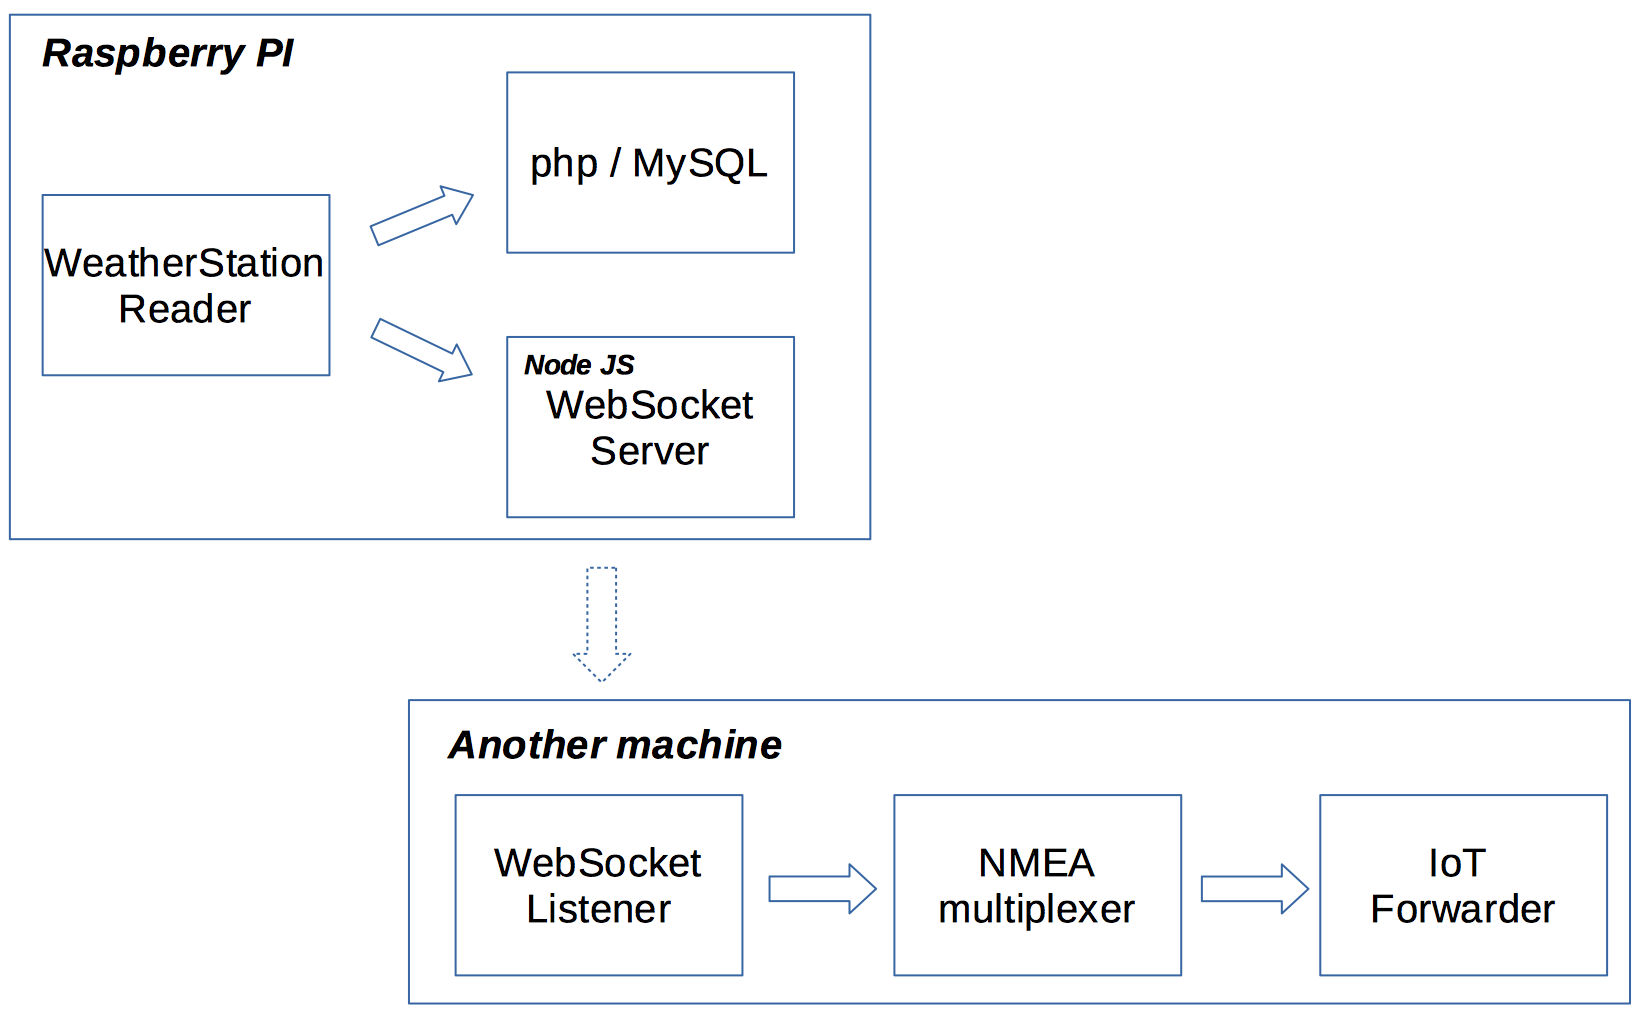
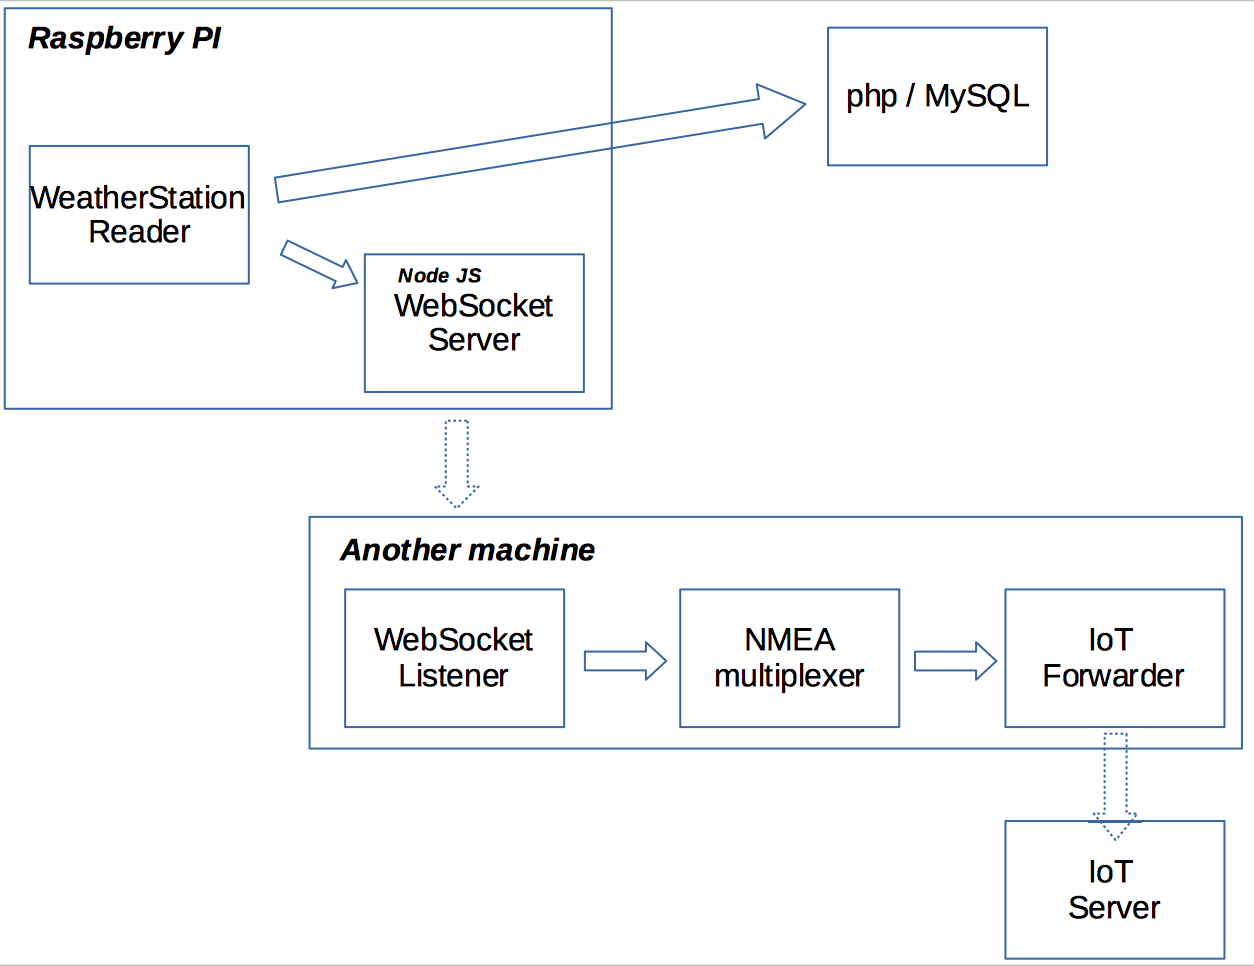
More docs

diff --git a/NMEA.multiplexer/examples.md b/NMEA.multiplexer/examples.md
@@ -298,6 +298,10 @@ Then the NMEA Multiplexer will be able to listen to the WebSocket topic.
 
 ![Weather Station](./docimages/weather.station.nmea.png)
 
+The `Raspberry PI` and the `Other Machine` are on the same Local Area Network (LAN).
+
+The `IoT server` and the `php/MySQL` are hosted on the Internet.
+
 ###### More on IoT
 [TODO, WIP]
 
